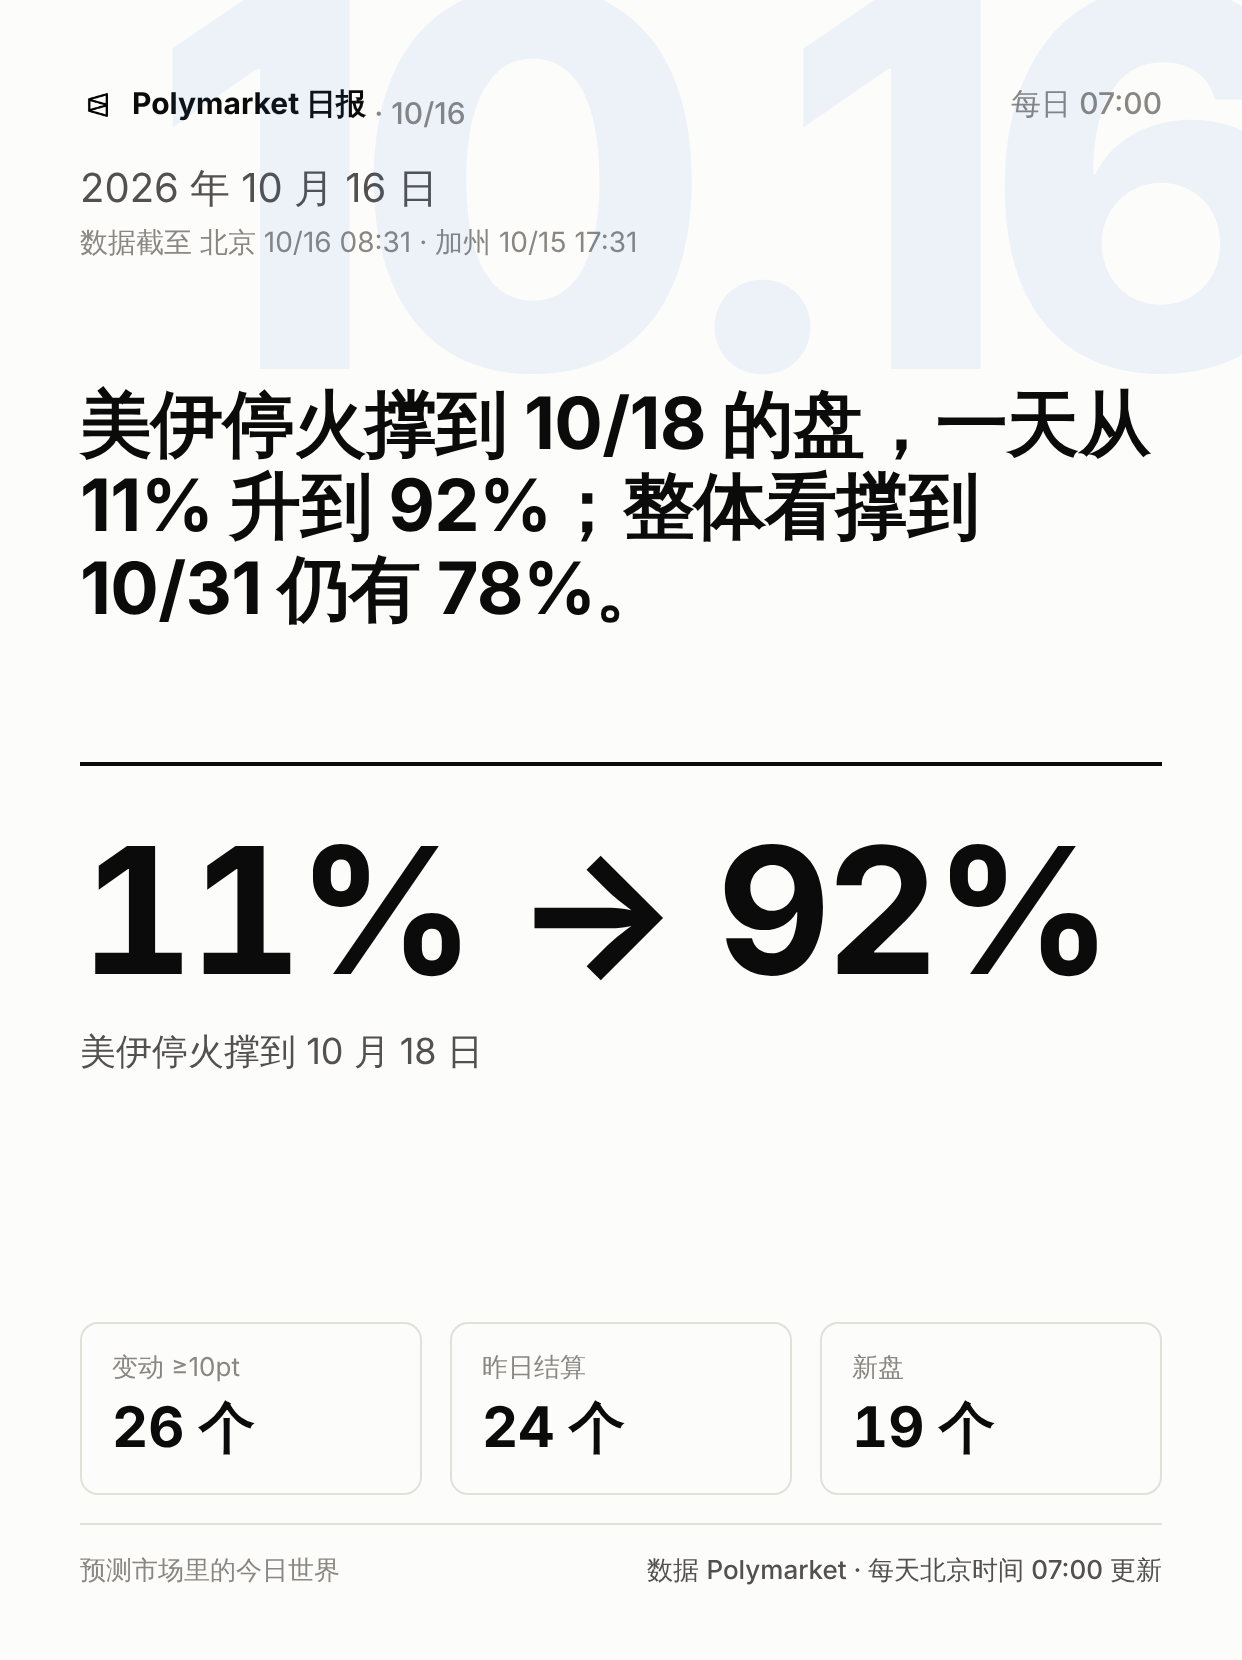
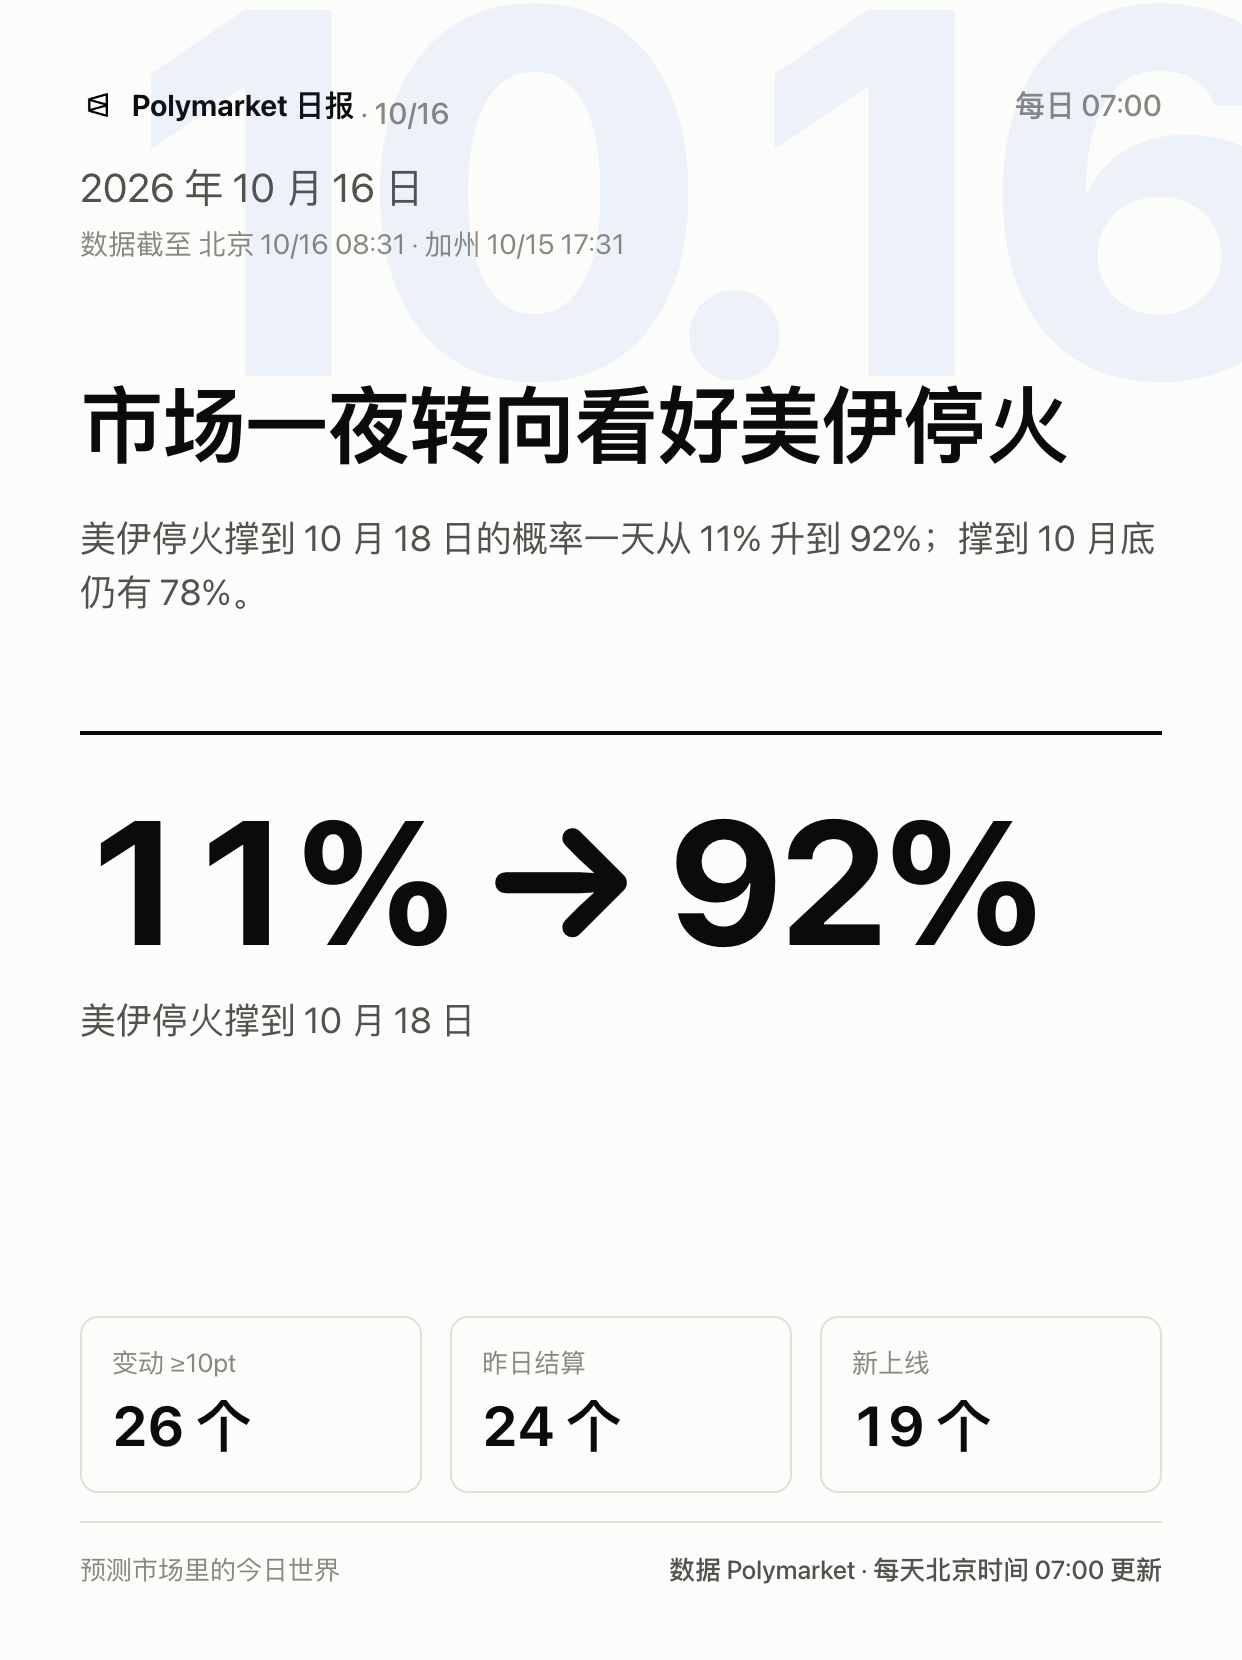
News-style daily title on post and cover; ban betting jargon in reader text, enforced by check_zh
- xhs.md line 1 is a 12-20 char news headline; zh.json gains "title", cover uses it
- check_zh.py: title present and <= 20 chars, jargon scan over post and overlay
- rename 长期盘/新盘 labels on pages; ROUTINE wording rules updated
- redo 2026-10-16 under the new rules

diff --git a/cards.html b/cards.html
@@ -42,7 +42,8 @@ svg.spark{width:180px;height:56px;overflow:visible;display:block}
 .rung{display:contents} .rl{color:var(--ink-2);white-space:nowrap} .rt{height:16px;background:var(--mid);border-radius:6px;overflow:hidden} .rt i{display:block;height:100%;background:var(--c1);border-radius:0 6px 6px 0}
 .rv{font-variant-numeric:tabular-nums;color:var(--ink);white-space:nowrap} .rv small{color:var(--muted);margin-left:6px;font-size:24px}
 /* cover */
-.cover h1{font-size:72px;margin-top:120px;min-height:260px}
+.cover h1{font-size:84px;margin-top:110px;line-height:1.2;letter-spacing:-.02em}
+.cover .lede{font-size:36px;line-height:1.5;color:var(--ink-2);margin:26px 0 0;min-height:110px}
 .cover .date{font-size:40px;color:var(--ink-2);margin-top:30px}
 .cover .hero{margin-top:110px;padding-top:56px;border-top:4px solid var(--ink)}
 .cover .hero .v{font-size:176px;font-weight:700;letter-spacing:-.03em;line-height:1;font-variant-numeric:tabular-nums}
@@ -85,12 +86,12 @@ const CARDS = {
   cover(day) {
     const o = overlay(), top = officialRows(day, 'politics', 1)[0];
     const hero = o.hero || { value: top ? pt(top.change1d) : '—', label: top ? label(top.question) : '' };
-    const headline = o.headline || (day.xhsFirst || '');
+    const headline = o.headline || (day.xhsFirst || ''), title = o.title || '';
     return `<section class="card cover"><div class="big">${esc(shortDate(day.date).replace('/', '.'))}</div>${brand(day, '每日 07:00')}
-      <div class="date">${esc(cnDate(day.date))}<span style="display:block;font-size:28px;color:var(--muted);margin-top:8px">${esc(stamp(day))}</span></div><h1>${esc(headline)}</h1>
+      <div class="date">${esc(cnDate(day.date))}<span style="display:block;font-size:28px;color:var(--muted);margin-top:8px">${esc(stamp(day))}</span></div><h1>${esc(title || headline)}</h1>${title ? `<p class="lede">${esc(headline)}</p>` : ''}
       <div class="hero"><div class="v">${esc(hero.value)}</div><div class="l">${esc(hero.label)}</div></div>
       <div class="kpis"><div class="kpi"><div class="l">变动 ≥10pt</div><div class="v">${['politics', 'finance', 'tech'].flatMap(g => officialRows(day, g, 99)).filter(m => Math.abs(m.change1d) >= 0.1).length} 个</div></div>
-        <div class="kpi"><div class="l">昨日结算</div><div class="v">${resolvedRows(day, 99).length} 个</div></div><div class="kpi"><div class="l">新盘</div><div class="v">${newRows(day, 99).length} 个</div></div></div>
+        <div class="kpi"><div class="l">昨日结算</div><div class="v">${resolvedRows(day, 99).length} 个</div></div><div class="kpi"><div class="l">新上线</div><div class="v">${newRows(day, 99).length} 个</div></div></div>
       ${foot('预测市场里的今日世界', '数据 Polymarket · 每天北京时间 07:00 更新')}</section>`;
   },
   headline(day) {
@@ -125,7 +126,7 @@ const CARDS = {
   },
   hot(day) {
     const rows = hotRows(day, 8);
-    return `<section class="card hot">${brand(day, '长期盘')}<h1>长期盘今天怎么看</h1><p class="sub">★ 连续多日高关注 · 其余按成交量 · 临近截止的标倒计时</p>
+    return `<section class="card hot">${brand(day, '长期关注')}<h1>长期关注的市场今天怎么看</h1><p class="sub">★ 连续多日高关注 · 其余按成交量 · 临近截止的标倒计时</p>
       <div class="rows">${rows.map(e => `<div class="row"><div class="title"><span>${PM.hotTitle(e)}</span><small>${usd(e.volume24h)}</small></div>${outcomeChart(e)}</div>`).join('')}</div>
       ${foot('互斥选项画成份额，日期/价格档位各画一条')}</section>`;
   },
@@ -137,13 +138,13 @@ const CARDS = {
   },
   new(day) {
     const rows = newRows(day, 6);
-    return `<section class="card">${brand(day, '新盘')}<h1>今天新开的盘</h1><p class="sub">官方公告 + 过去 24 小时新上线 · 首日概率</p>
+    return `<section class="card">${brand(day, '新上线')}<h1>今天新上线的市场</h1><p class="sub">官方公告 + 过去 24 小时新上线 · 首日概率</p>
       <div class="rows">${rows.map(e => `<div class="row" style="grid-template-columns:1fr"><div class="t">${esc(label(e.title))}${e.official ? '<span class="tag">官方公告</span>' : ''}${e.outcomes && e.outcomes.length ? `<small style="white-space:normal">${e.outcomes.slice(0, 3).map(o => `${esc(outcomeLabel(o.label))} ${pct(o.yes)}`).join(' · ')}</small>` : ''}</div></div>`).join('')}</div>
       ${foot('新市场往往就是新闻本身')}</section>`;
   },
 };
 // A post ships the first five, same order every day. "new" and "feed" are dashboard-only previews.
-const ORDER = [['cover', '封面', true], ['headline', '头条走势', true], ['breaking', '突发榜', true], ['hot', '长期盘', true], ['resolved', '结算', true], ['new', '新盘（仅 Dashboard）', false]];
+const ORDER = [['cover', '封面', true], ['headline', '头条走势', true], ['breaking', '突发榜', true], ['hot', '长期关注', true], ['resolved', '结算', true], ['new', '新上线（仅 Dashboard）', false]];
 const eligible = k => k !== 'new';
 // Fixed-size cards: when a list does not fit, drop rows from the bottom rather than shrink type.
 const fit = () => document.querySelectorAll('.card').forEach(c => { const rows = c.querySelector('.rows'); let g = 40; while (rows && c.scrollHeight > c.offsetHeight && rows.children.length > 3 && g--) rows.removeChild(rows.lastElementChild); });

diff --git a/index.html b/index.html
@@ -111,7 +111,7 @@ footer{margin-top:36px;color:var(--muted);font-size:12.5px;line-height:1.7}
 
   <div class="column" id="column"></div>
 
-  <h2 class="sec">市场 <span class="src">热门按 24 小时成交，★ 为钉住的长期盘</span></h2>
+  <h2 class="sec">市场 <span class="src">热门按 24 小时成交，★ 为连续多日高关注的市场</span></h2>
   <div class="tabs" id="domTabs"></div>
   <div class="grid two">
     <article class="card"><h2>热门</h2><div id="hot"></div></article>

diff --git a/scripts/check_zh.py b/scripts/check_zh.py
@@ -1,5 +1,6 @@
 #!/usr/bin/env python3
-"""Verify that every row the five Xiaohongshu cards will show has a Chinese label.
+"""Verify that every row the five Xiaohongshu cards will show has a Chinese label,
+that the day has a news-style title, and that no betting jargon reaches readers.
 
     python3 scripts/check_zh.py [YYYY-MM-DD]
 
@@ -24,6 +25,11 @@ BUILTIN = {"Yes", "No", "No change", "Democratic Party", "Republican Party", "De
 DATE = re.compile(r"^(January|February|March|April|May|June|July|August|September|October|November|December) \d{1,2}(, \d{4})?$")
 NUMERIC = re.compile(r"^[↑↓<>≥≤]?\s*[\$€£]?[\d.,]+[%+kKMB]*(\s*[-–]\s*[\$]?[\d.,]+[%kKMB]*)?\+?$")
 PARTICLES = {"de", "da", "do", "von", "van", "of", "the", "bin", "al", "el", "&", "y", "la", "le"}
+# Betting jargon that must not reach readers. "开盘 / 收盘" (market open/close) are allowed, so match the
+# gambling senses only: a market called a "盘", plus 押注 / 下注 / 赌 / 赔率.
+JARGON = re.compile(r"(这个|那个|的|个|该|此|新|长期|梯子|热门|冷门)盘|盘口|押注|下注|赌|赔率")
+TITLE_MAX = 20  # Xiaohongshu title limit
+
 
 
 def is_proper_noun(label: str) -> bool:
@@ -93,16 +99,37 @@ def main() -> int:
         print(f"[error] {zh_path.name} 不存在", file=sys.stderr)
         return 1
     labels, skip = zh.get("labels", {}), set(zh.get("skip", []))
-    missing_labels, missing_outcomes, missing_fields = [], [], []
+    missing_labels, missing_outcomes, missing_fields, wording = [], [], [], []
 
-    for key in ("headline", "hero", "headlineQuestion", "headlineTitle"):
+    for key in ("title", "headline", "hero", "headlineQuestion", "headlineTitle"):
         if not zh.get(key):
             missing_fields.append(key)
+    title = str(zh.get("title") or "")
+    if title and len(title) > TITLE_MAX:
+        wording.append(f"title 有 {len(title)} 字，上限 {TITLE_MAX}：{title}")
+
+    # Reader-facing strings: the post text and every Chinese value in the overlay.
+    xhs_path = ROOT / "reports" / f"{date}.xhs.md"
+    texts = []
+    if xhs_path.exists():
+        lines = xhs_path.read_text().splitlines()
+        if lines and (not lines[0].strip() or lines[0].startswith("Polymarket") or len(lines[0].strip()) > TITLE_MAX):
+            wording.append(f"正文第一行应是 12 到 20 字的新闻标题，现在是：{lines[0].strip()!r}")
+        texts += [(xhs_path.name, l) for l in lines]
+    else:
+        missing_fields.append(f"{xhs_path.name}（文件不存在）")
+    texts += [("zh.json " + k, str(zh.get(k) or "")) for k in ("title", "headline", "headlineTitle", "headlineCause")]
+    texts.append(("zh.json hero.label", str((zh.get("hero") or {}).get("label") or "")))
+    texts += [("zh.json labels", v) for v in labels.values()] + [("zh.json outcomes", v) for v in zh.get("outcomes", {}).values()]
+    for where, t in texts:
+        m = JARGON.search(t)
+        if m:
+            wording.append(f"{where} 出现博彩词「{m.group(0)}」：{t.strip()[:60]}")
 
     need = []
     need += [("突发榜", m["question"]) for m in breaking_rows(day, skip)]
     for e in hot_rows(day):
-        need.append(("长期盘", e["title"]))
+        need.append(("长期关注", e["title"]))
         rungs = e["outcomes"][:3] if e["kind"] == "exclusive" else e["outcomes"][:4]
         for o in rungs:
             if o["label"] and not outcome_ok(o["label"], zh):
@@ -115,12 +142,16 @@ def main() -> int:
         if q not in labels or not re.search(r"[一-鿿]", labels[q]):
             missing_labels.append((card, q))
 
-    if not (missing_labels or missing_outcomes or missing_fields):
-        print(f"[ok] {date}: 五张图上的 {len(need)} 行都有中文", file=sys.stderr)
+    if not (missing_labels or missing_outcomes or missing_fields or wording):
+        print(f"[ok] {date}: 五张图上的 {len(need)} 行都有中文，标题和用词合格", file=sys.stderr)
         return 0
-    print(f"[fail] {date}: 中文覆盖不完整，把下面的内容补进 reports/{date}.zh.json", file=sys.stderr)
+    print(f"[fail] {date}: 中文覆盖或用词不合格，按下面修改 reports/{date}.zh.json 和 .xhs.md", file=sys.stderr)
     if missing_fields:
         print("缺少字段: " + ", ".join(missing_fields))
+    if wording:
+        print("用词 / 标题问题（改成\"市场\"\"概率\"或直接说事件）:")
+        for w in wording:
+            print("  " + w)
     if missing_labels:
         print('"labels" 需要补:')
         for card, q in missing_labels:

diff --git a/ROUTINE.md b/ROUTINE.md
@@ -17,6 +17,15 @@ python3 scripts/fetch.py
 
 只读候选条目这一块就够了，原因已经附在每条候选下面。
 
+**标题**
+
+第一行是当天的标题，像新闻标题，不是栏目名。12 到 20 字（小红书标题上限 20 字），说清楚谁、发生了什么或市场怎么看，可以带一个数字，和正文第 1 条是同一件事。
+
+- 不要："Polymarket 今日 · 10/16"、"今日预测市场速览"
+- 要："市场一夜转向看好美伊停火"、"以色列央行 10 月会不会动利率，市场拿不准了"
+
+同一个标题也写进 `zh.json` 的 `title`，封面图用它。
+
 **选取**
 
 - 从候选里按分数从高到低挑，下限 4 条，上限 10 条。边际检验：这一条你会不会主动跟朋友说，不会就停。
@@ -32,7 +41,7 @@ python3 scripts/fetch.py
 
 每条由两个半句组成，35 到 50 字：
 
-1. **事实句**：发生了什么，或者市场在押什么。用白话说清楚这个盘在问什么，不要直译英文题目。
+1. **事实句**：发生了什么，或者市场在判断什么。用白话说清楚这个市场在问什么，不要直译英文题目。
    - 不要："以色列央行不变 57% ↓36"
    - 要："市场突然认为以色列央行 10 月会动利率，按兵不动的概率一天从 93% 跌到 57%"
 2. **市场句**：市场的判断从多少变到多少，或者现在多少。数字放句尾。
@@ -41,24 +50,25 @@ python3 scripts/fetch.py
 
 - 行首加两字标签：政经、财经、科技、海外、文体。同标签相邻，按重要性排，文体在最后。
 - 变化的方向要用人话翻一遍："从 27% 直接结算"写成"市场原本只给 27%，结果真发生了"；"跌到 2%"写成"基本没戏了"。
-- 已结算的盘写"已成定局"或"答案出来了"，别只写 100%。
-- 梯子盘写市场中位估计："市场认为 10 年期年内顶部大约在 5.0 到 5.2%"。
+- 已结算的写"已成定局"或"答案出来了"，别只写 100%。
+- 梯子市场写市场中位估计："市场认为 10 年期年内顶部大约在 5.0 到 5.2%"。
 - 候选里给的"可能的原因"要核对相关性，相关就接在事实句里，不相关就不写。不自己编原因。
 - 数字照抄摘要。人名、公司名、代币名保留英文，其余全部中文。
 - 不出现 pt、bps 这类缩写，写"个百分点""个基点"。
+- **不用博彩词**："盘""这个盘""的盘""盘口""押注""下注""赌""赔率"一律不出现，标题、正文、封面、标签都不行。说"市场""概率"，或者直接说事件本身："美伊停火撑到 10/18 的概率一天从 11% 升到 92%"，不是"美伊停火撑到 10/18 的盘，一天从 11% 升到 92%"。`check_zh.py` 会查。
 
 **格式**
 
 ```
-Polymarket 今日 · 10/16
-数据截至 北京 10/16 07:02 · 加州 10/15 16:02   ← 照抄摘要第二行
+市场一夜转向看好美伊停火
+Polymarket 日报 · 10/16 · 数据截至 北京 10/16 07:02 · 加州 10/15 16:02   ← 时间照抄摘要第二行
 
 1. 财经 美国 9 月 PPI 环比 +1.3%，四年最大涨幅。"同比 ≥5.9%" 从 27% 直接结算，10 月不加息概率反而回到 72%。
 2. 海外 朝鲜试射潜射巡航导弹，今年试射数已超去年全年。"10 月 4 次以上试验"从 23% 升到 65%。
 …
 8. 文体 GTA VI 10 月底前再发预告片，从 61% 直接结算到 100%。
 
-图 2 头条走势 · 图 3 突发榜 · 图 4 长期盘 · 图 5 昨日结算
+图 2 头条走势 · 图 3 突发榜 · 图 4 长期关注 · 图 5 昨日结算
 #Polymarket #预测市场
 ```
 
@@ -68,7 +78,8 @@ Dashboard 和卡片页用它把英文换成中文。结构：
 
 ```json
 {
-  "headline": "封面的一句话，和正文第 1 条同一件事，不超过 60 字",
+  "title": "正文第一行的标题，12 到 20 字，封面大字用它",
+  "headline": "封面的一句话，和正文第 1 条同一件事，不超过 60 字，标题下面的小字",
   "hero": {"value": "27% → 100%", "label": "9 月 PPI 同比 ≥5.9%，市场前一天只给 27%"},
   "headlineQuestion": "候选第 1 条的英文原题，用于头条走势图",
   "headlineTitle": "头条走势图的中文标题",
@@ -84,13 +95,13 @@ Dashboard 和卡片页用它把英文换成中文。结构：
 - `outcomes` 只填选项里的普通名词（党派、"不变"之类已内置，人名公司名不用翻）。
 - `picked` 必须填，是 7 天去重的依据。`hero.value` 用"起点 → 终点"写法。
 
-## 3.5 校验中文覆盖
+## 3.5 校验中文覆盖和用词
 
 ```bash
 python3 scripts/check_zh.py
 ```
 
-它会列出五张图上还是英文的每一行，按它给的 JSON 片段补进 `zh.json`，再跑一次，直到打印 `[ok]`。不通过不要进入下一步。
+它会列出五张图上还是英文的每一行，按它给的 JSON 片段补进 `zh.json`；也会检查 `title` 是否存在、是否超过 20 字，以及正文和覆盖文件里有没有"盘""押注"这类博彩词。再跑一次，直到打印 `[ok]`。不通过不要进入下一步。
 
 ## 4. 生成图片
 
@@ -99,7 +110,7 @@ python3 -m pip install -q playwright && python3 -m playwright install chromium  
 python3 scripts/render_cards.py
 ```
 
-输出 `cards/<日期>/`，每天固定五张，顺序不变：封面、头条走势、突发榜、长期盘、结算。新盘和快讯只在 Dashboard 预览，不渲染。失败就跳过并汇报，不阻塞提交。
+输出 `cards/<日期>/`，每天固定五张，顺序不变：封面、头条走势、突发榜、长期关注、结算。新盘和快讯只在 Dashboard 预览，不渲染。失败就跳过并汇报，不阻塞提交。
 
 ## 5. 提交推送
 

diff --git a/reports/2026-10-16.xhs.md b/reports/2026-10-16.xhs.md
@@ -1,7 +1,7 @@
-Polymarket 今日 · 10/16
-数据截至 北京 10/16 08:31 · 加州 10/15 17:31
+市场一夜转向看好美伊停火
+Polymarket 日报 · 10/16 · 数据截至 北京 10/16 08:31 · 加州 10/15 17:31
 
-1. 政经 美伊停火能不能撑到 10/18，这个盘一天从 11% 升到 92%。更远的 10/31 前不破是 78%，11/15 是 52%。
+1. 政经 美伊停火能撑到 10/18 的概率，一天从 11% 升到 92%。更远的 10/31 前不破是 78%，11/15 是 52%。
 2. 政经 巴西总统决选还剩 10 天，官方快讯称 Lula 后程发力，市场给他当选概率 25%。
 3. 财经 以色列央行 10 月会不会动利率，市场突然拿不准：按兵不动从 93% 跌到 47%，降息有 50%。
 4. 财经 WTI 原油 10 月内触及 $100 的概率，一天从 44% 升到 66%。
@@ -10,5 +10,5 @@ Polymarket 今日 · 10/16
 7. 科技 特斯拉 Roadster 发布会今晚，现场搭了高坡道，"能飞 1 秒以上"从 36% 升到 55%。
 8. 文体 GTA VI 10/31 前再发预告片，市场原本只给 61%，结果真发生了，已成定局 100%。
 
-图 2 头条走势 · 图 3 突发榜 · 图 4 长期盘 · 图 5 昨日结算
+图 2 头条走势 · 图 3 突发榜 · 图 4 长期关注 · 图 5 昨日结算
 #Polymarket #预测市场

diff --git a/README.md b/README.md
@@ -35,7 +35,7 @@ Claude Code 定时任务（云端，每天 23:00 UTC）
 | `assets/shared.js` | 两个页面共用：格式化、中文覆盖、份额条 / 档位条 / 走势图、下载 |
 | `index.html` | Dashboard |
 | `cards.html` | 卡片页，`?card=cover` 单张 |
-| `config/pins.json` | 长期盘的 always / never 覆盖，默认空 |
+| `config/pins.json` | 长期关注市场的 always / never 覆盖，默认空 |
 | `data/` `reports/` `cards/` | 每日数据、正文与覆盖文件、图片 |
 
 ## 本地
@@ -48,6 +48,6 @@ python3 -m http.server 8080
 
 ## 调整
 
-- 长期盘默认按规则自动选（7 天里 70% 的日子进成交量前十，取 5 个）；`config/pins.json` 的 always / never 可强制纳入或排除。
+- 长期关注的市场默认按规则自动选（7 天里 70% 的日子进成交量前十，取 5 个）；`config/pins.json` 的 always / never 可强制纳入或排除。
 - 阈值、分类标签、噪音黑名单、打分参数：`scripts/fetch.py` 顶部 config 段。
 - 卡片样式：`cards.html` 的 CSS；图表画法：`assets/shared.js`。

diff --git a/CLAUDE.md b/CLAUDE.md
@@ -10,7 +10,7 @@
 - `assets/shared.js` — 两个页面共用的格式化、中文覆盖、图表（份额条、档位条、走势图）。
 - `index.html` Dashboard、`cards.html` 卡片页，都是静态页，无构建。
 - `reports/<日期>.xhs.md` 正文、`reports/<日期>.zh.json` 中文覆盖与已选条目，由定时代理按 `ROUTINE.md` 写。
-- `config/pins.json` 长期盘的 always / never 覆盖（默认空，规则自动选）。`docs/api-research.md` 接口实测说明。
+- `config/pins.json` 长期关注市场的 always / never 覆盖（默认空，规则自动选）。`docs/api-research.md` 接口实测说明。
 
 ## 命令
 
